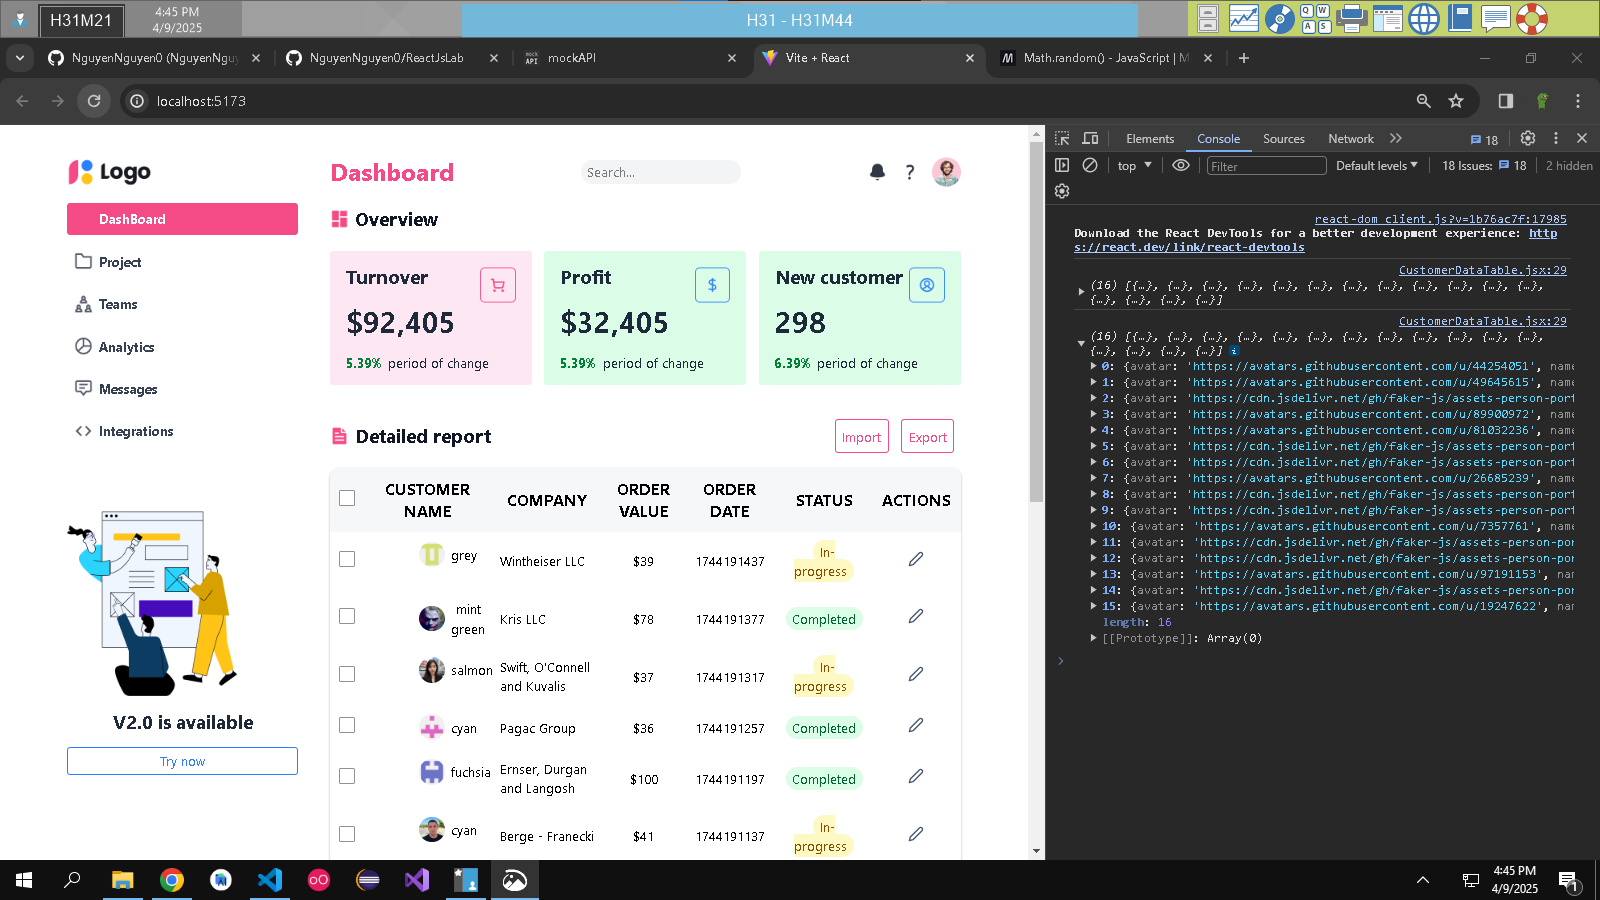
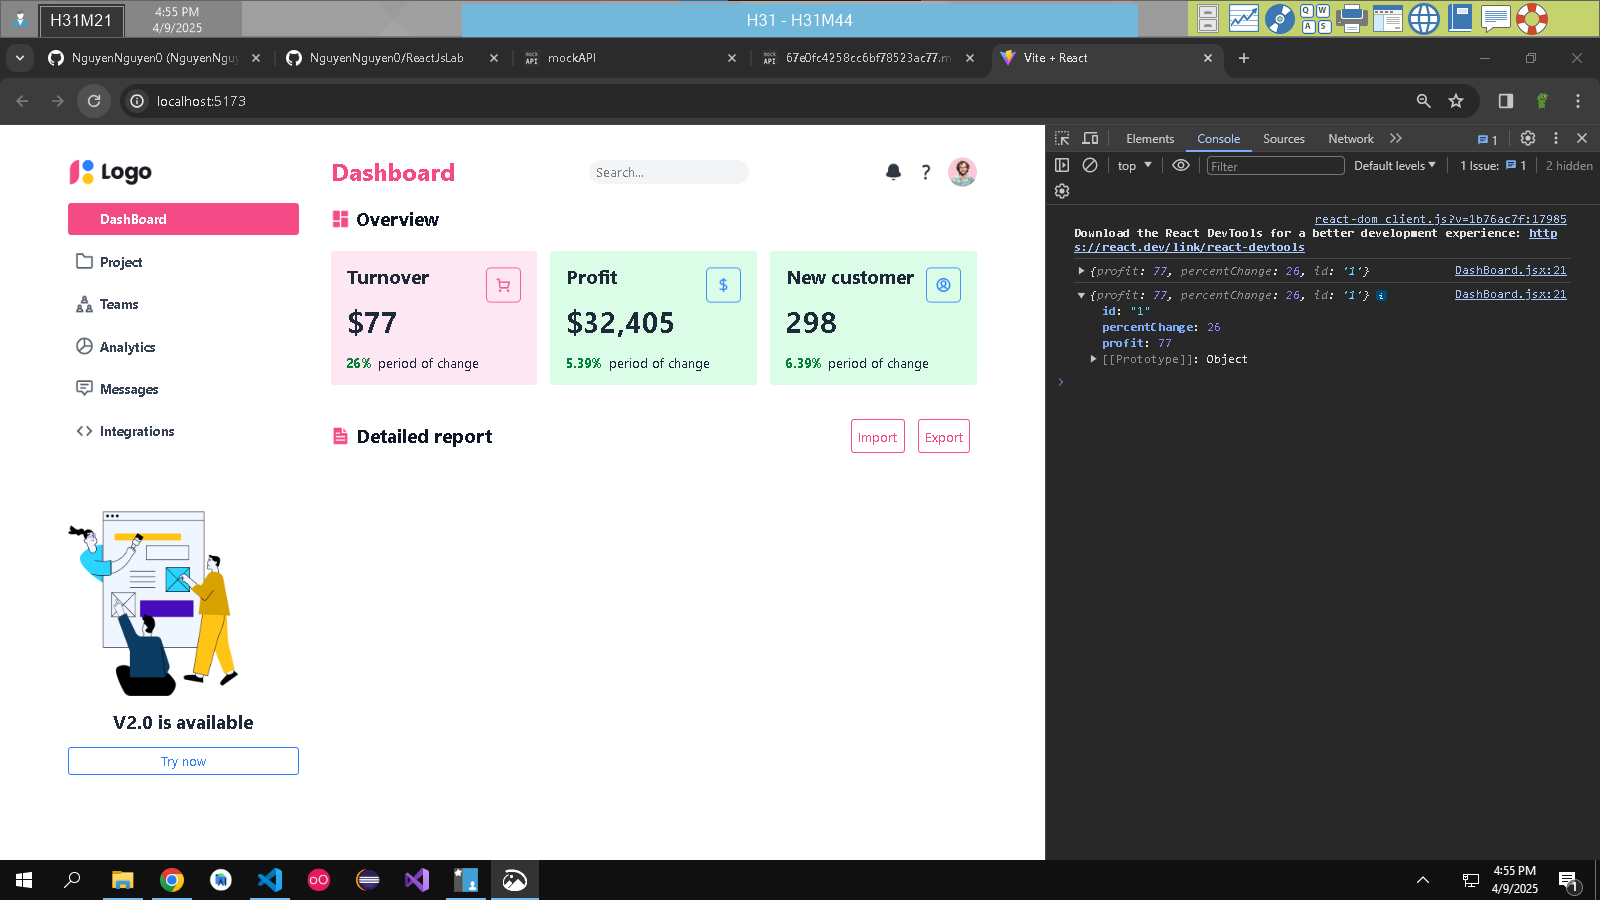
update 2. API Overview

diff --git a/Lab07/src/pages/DashBoard.jsx b/Lab07/src/pages/DashBoard.jsx
@@ -1,4 +1,4 @@
-import React from 'react'
+import React, { useEffect, useState } from 'react'
 import bell from '../assets/imgs/Bell 1.png'
 import help from '../assets/imgs/Question 1.png'
 import avatar from '../assets/imgs/Avatar 313.png'
@@ -12,6 +12,17 @@ import fileText from '../assets/imgs/File text 1.png'
 import CustomerDataTable from '../components/CustomerDataTable'
 
 function DashBoard() {
+  const [turnover, setTurnover] = useState({})
+
+  useEffect(() => {
+    fetch('https://67e0fc4258cc6bf78523ac77.mockapi.io/statistic')
+      .then(res => res.json())
+      .then(data => {
+        console.log(data[0]);
+        setTurnover(data[0])
+      })
+  }, [])
+
   return (
     <main>
       <header className='flex items-center justify-between'>
@@ -47,9 +58,9 @@ function DashBoard() {
                 <img src={cart} alt="" />
               </button>
               <h1 className='text-2xl text-gray-800 font-bold'>Turnover</h1>
-              <h2 className='text-4xl text-gray-800 my-5 font-bold'>$92,405</h2>
+              <h2 className='text-4xl text-gray-800 my-5 font-bold'>${turnover.profit}</h2>
               <p>
-                <span className='text-green-700 font-bold mr-2'>5.39%</span>
+                <span className='text-green-700 font-bold mr-2'>{turnover.percentChange}%</span>
                 <span className='text-gray-800'>period of change</span>
               </p>
             </div>

diff --git a/Lab07/src/components/CustomerDataTable.jsx b/Lab07/src/components/CustomerDataTable.jsx
@@ -20,17 +20,17 @@ const customersData = [
 const statuses = ['New', 'Completed', 'In-progress']
 
 function CustomerDataTable() {
-  const [customers, setCustomers] = useState([]);
+  const [customers, setCustomers] = useState(customersData);
 
-  useEffect(() => {
-    fetch('https://67e0fc4258cc6bf78523ac77.mockapi.io/book')
-      .then((response) => response.json())
-      .then((data) => {
-        console.log(data);
-        setCustomers(data.map(customer => ({...customer, status: statuses[Math.floor(Math.random() * 3)]})))
-      })
-      .catch((err) => console.log(err))
-  }, []);
+  // useEffect(() => {
+  //   fetch('https://67e0fc4258cc6bf78523ac77.mockapi.io/book')
+  //     .then((response) => response.json())
+  //     .then((data) => {
+  //       console.log(data);
+  //       setCustomers(data.map(customer => ({...customer, status: statuses[Math.floor(Math.random() * 3)]})))
+  //     })
+  //     .catch((err) => console.log(err))
+  // }, []);
 
   return (
     <div>
